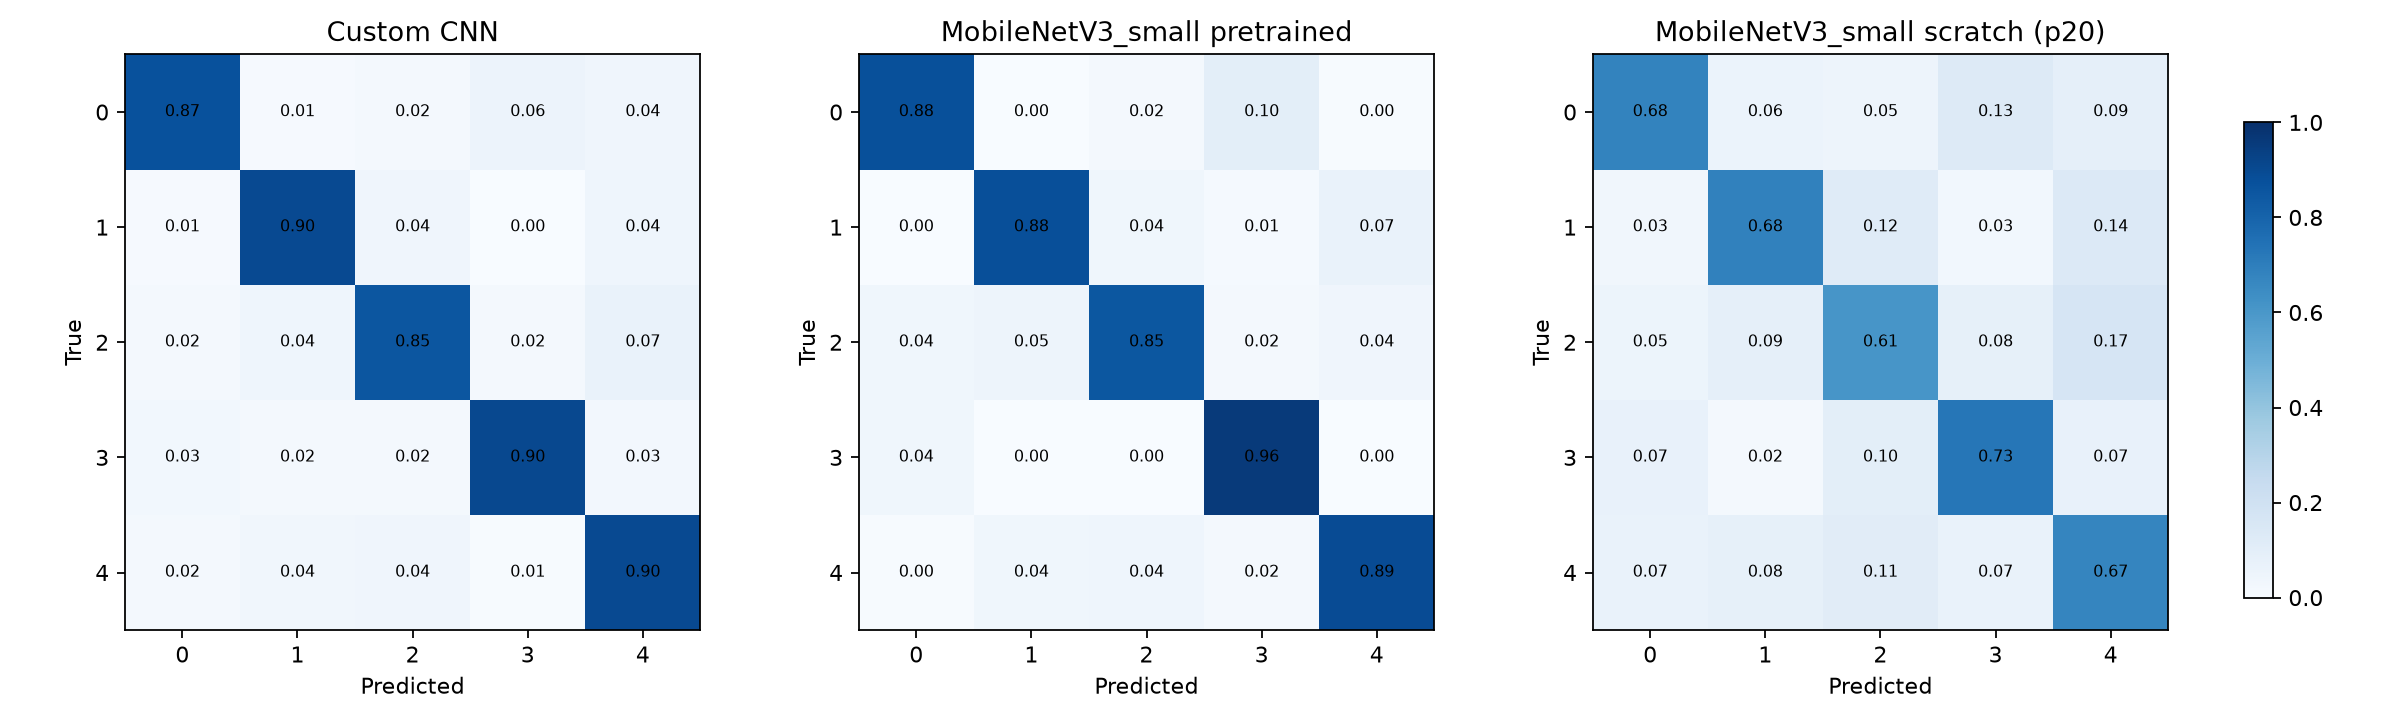
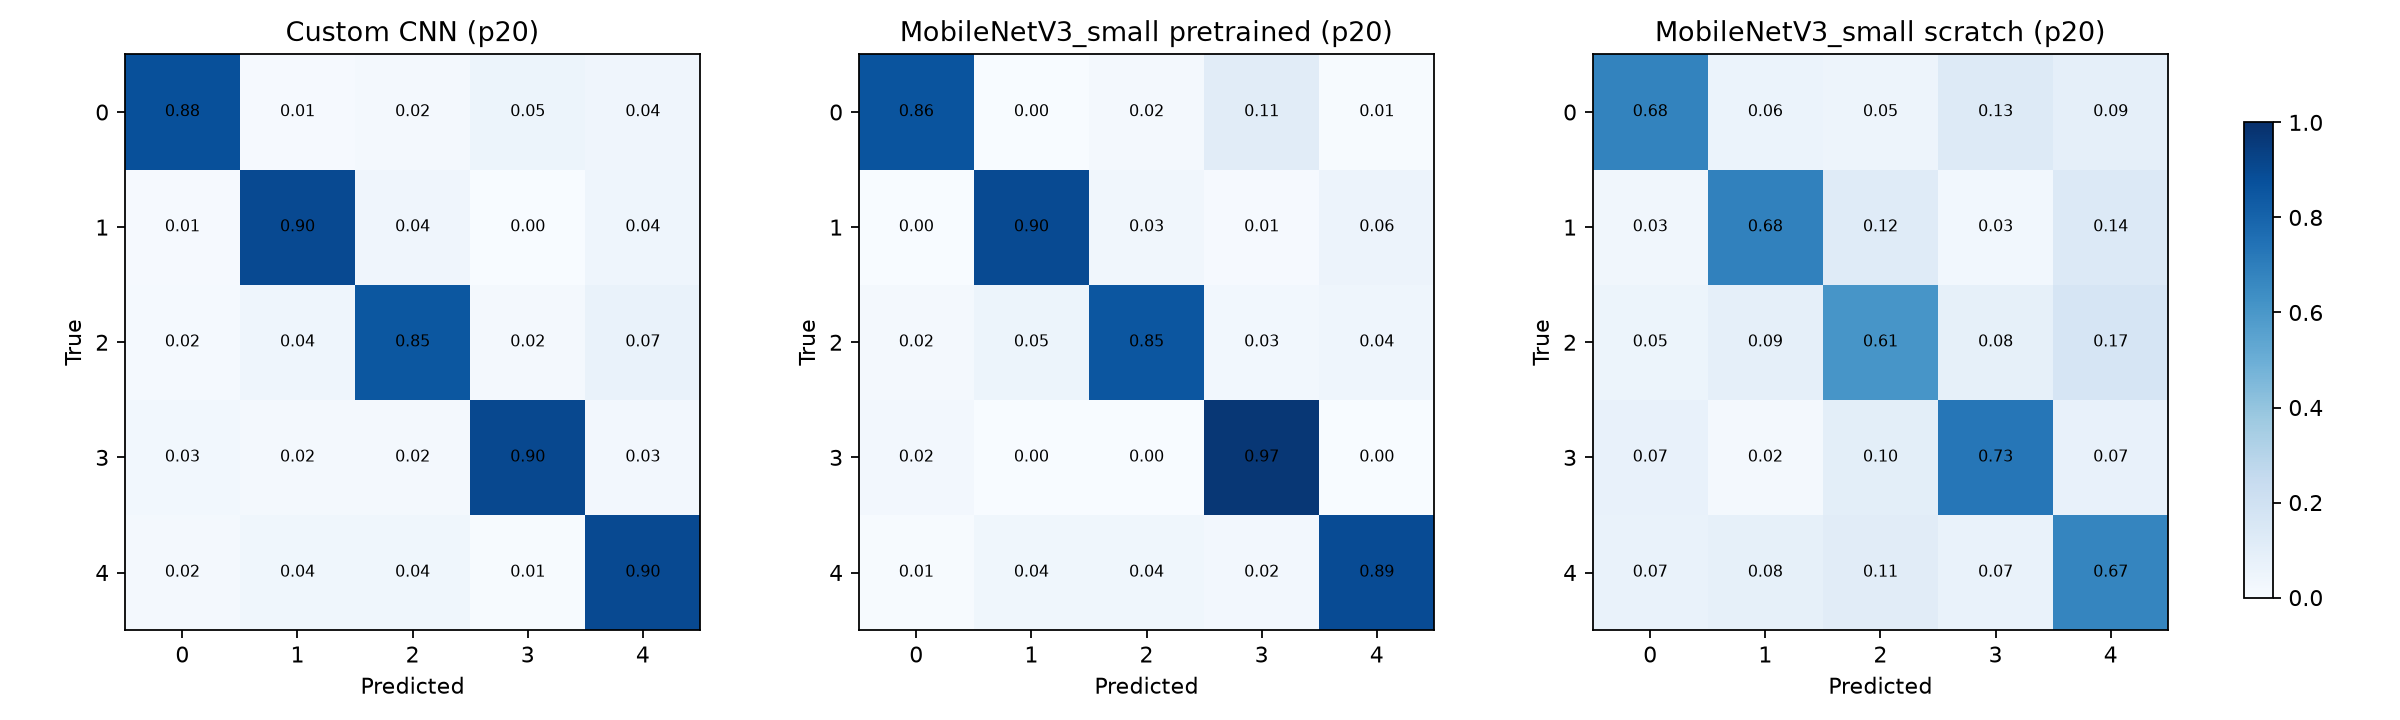
docs: cập nhật kết quả RQ1 với patience 20 đồng nhất

Changed region(s): [[0.375, 0.0306, 0.5938, 0.0611], [0.125, 0.0306, 0.2188, 0.0611]]

diff --git a/scripts/analyze_rq1.py b/scripts/analyze_rq1.py
@@ -316,8 +316,8 @@ def build_markdown(
         "# Kết quả RQ1",
         "",
         "Sinh tự động bởi `scripts/analyze_rq1.py`; test được đánh giá một lần cho "
-        "mỗi phiên bản. Scratch có tái sử dụng test sau khi sửa recipe, xem "
-        "`plans/rq1/scratch_final_v2.yaml`.",
+        "mỗi phiên bản. Cả ba arm đều đã tái sử dụng test sau khi điều chỉnh "
+        "protocol, xem các plan tương ứng.",
         "",
     ]
     if aggregate.empty:

diff --git a/docs/RQ1/rq1_results.md b/docs/RQ1/rq1_results.md
@@ -1,29 +1,29 @@
 # Kết quả RQ1
 
-Sinh tự động bởi `scripts/analyze_rq1.py`; test được đánh giá một lần cho mỗi phiên bản. Scratch có tái sử dụng test sau khi sửa recipe, xem `plans/rq1/scratch_final_v2.yaml`.
+Sinh tự động bởi `scripts/analyze_rq1.py`; test được đánh giá một lần cho mỗi phiên bản. Cả ba arm đều đã tái sử dụng test sau khi điều chỉnh protocol, xem các plan tương ứng.
 
 ## Tổng hợp
 
 | label | n_seeds | Macro-F1 mean | Macro-F1 std | Accuracy mean | Params |
 | --- | --- | --- | --- | --- | --- |
-| MobileNetV3_small pretrained | 5 | 0.8901 | 0.0114 | 0.8914 | 1522981.0000 |
-| Custom CNN | 5 | 0.8870 | 0.0060 | 0.8868 | 1174501.0000 |
+| MobileNetV3_small pretrained (p20) | 5 | 0.8945 | 0.0081 | 0.8955 | 1522981.0000 |
+| Custom CNN (p20) | 5 | 0.8863 | 0.0057 | 0.8860 | 1174501.0000 |
 | MobileNetV3_small scratch (p20) | 5 | 0.6734 | 0.0144 | 0.6722 | 1522981.0000 |
 
 ## Theo seed
 
 | label | seed | macro_f1 | accuracy | best_val_macro_f1 |
 | --- | --- | --- | --- | --- |
-| Custom CNN | 7 | 0.8880 | 0.8870 | 0.8664 |
-| Custom CNN | 42 | 0.8906 | 0.8906 | 0.8809 |
-| Custom CNN | 123 | 0.8763 | 0.8761 | 0.8607 |
-| Custom CNN | 2024 | 0.8901 | 0.8906 | 0.8708 |
-| Custom CNN | 3407 | 0.8899 | 0.8894 | 0.8728 |
-| MobileNetV3_small pretrained | 7 | 0.8900 | 0.8906 | 0.8925 |
-| MobileNetV3_small pretrained | 42 | 0.8833 | 0.8858 | 0.8809 |
-| MobileNetV3_small pretrained | 123 | 0.8793 | 0.8797 | 0.8974 |
-| MobileNetV3_small pretrained | 2024 | 0.9089 | 0.9101 | 0.9005 |
-| MobileNetV3_small pretrained | 3407 | 0.8888 | 0.8906 | 0.8935 |
+| Custom CNN (p20) | 7 | 0.8880 | 0.8870 | 0.8664 |
+| Custom CNN (p20) | 42 | 0.8872 | 0.8870 | 0.8746 |
+| Custom CNN (p20) | 123 | 0.8763 | 0.8761 | 0.8607 |
+| Custom CNN (p20) | 2024 | 0.8901 | 0.8906 | 0.8708 |
+| Custom CNN (p20) | 3407 | 0.8899 | 0.8894 | 0.8728 |
+| MobileNetV3_small pretrained (p20) | 7 | 0.8900 | 0.8906 | 0.8925 |
+| MobileNetV3_small pretrained (p20) | 42 | 0.9024 | 0.9028 | 0.8958 |
+| MobileNetV3_small pretrained (p20) | 123 | 0.8835 | 0.8846 | 0.8975 |
+| MobileNetV3_small pretrained (p20) | 2024 | 0.9021 | 0.9040 | 0.9028 |
+| MobileNetV3_small pretrained (p20) | 3407 | 0.8944 | 0.8955 | 0.9027 |
 | MobileNetV3_small scratch (p20) | 7 | 0.6799 | 0.6780 | 0.6791 |
 | MobileNetV3_small scratch (p20) | 42 | 0.6804 | 0.6829 | 0.7039 |
 | MobileNetV3_small scratch (p20) | 123 | 0.6792 | 0.6780 | 0.6919 |
@@ -34,16 +34,16 @@ Sinh tự động bởi `scripts/analyze_rq1.py`; test được đánh giá mộ
 
 | label | class | f1_mean | f1_std | recall_mean |
 | --- | --- | --- | --- | --- |
-| Custom CNN | cardboard | 0.8862 | 0.0133 | 0.8738 |
-| Custom CNN | glass | 0.8817 | 0.0112 | 0.9014 |
-| Custom CNN | metal | 0.8661 | 0.0066 | 0.8522 |
-| Custom CNN | paper | 0.9138 | 0.0138 | 0.9049 |
-| Custom CNN | plastic | 0.8870 | 0.0129 | 0.9005 |
-| MobileNetV3_small pretrained | cardboard | 0.8836 | 0.0214 | 0.8754 |
-| MobileNetV3_small pretrained | glass | 0.8786 | 0.0067 | 0.8797 |
-| MobileNetV3_small pretrained | metal | 0.8733 | 0.0134 | 0.8500 |
-| MobileNetV3_small pretrained | paper | 0.9124 | 0.0133 | 0.9585 |
-| MobileNetV3_small pretrained | plastic | 0.9024 | 0.0131 | 0.8919 |
+| Custom CNN (p20) | cardboard | 0.8873 | 0.0139 | 0.8769 |
+| Custom CNN (p20) | glass | 0.8796 | 0.0131 | 0.9000 |
+| Custom CNN (p20) | metal | 0.8667 | 0.0071 | 0.8489 |
+| Custom CNN (p20) | paper | 0.9125 | 0.0128 | 0.9024 |
+| Custom CNN (p20) | plastic | 0.8855 | 0.0127 | 0.9014 |
+| MobileNetV3_small pretrained (p20) | cardboard | 0.8914 | 0.0131 | 0.8600 |
+| MobileNetV3_small pretrained (p20) | glass | 0.8862 | 0.0081 | 0.8971 |
+| MobileNetV3_small pretrained (p20) | metal | 0.8788 | 0.0121 | 0.8533 |
+| MobileNetV3_small pretrained (p20) | paper | 0.9104 | 0.0120 | 0.9707 |
+| MobileNetV3_small pretrained (p20) | plastic | 0.9057 | 0.0117 | 0.8938 |
 | MobileNetV3_small scratch (p20) | cardboard | 0.6805 | 0.0340 | 0.6769 |
 | MobileNetV3_small scratch (p20) | glass | 0.6805 | 0.0309 | 0.6841 |
 | MobileNetV3_small scratch (p20) | metal | 0.6231 | 0.0355 | 0.6089 |
@@ -54,20 +54,20 @@ Sinh tự động bởi `scripts/analyze_rq1.py`; test được đánh giá mộ
 
 | label | true_label | pred_label | count |
 | --- | --- | --- | --- |
-| Custom CNN | metal | plastic | 60.0000 |
-| Custom CNN | plastic | metal | 44.0000 |
-| Custom CNN | metal | glass | 40.0000 |
-| Custom CNN | plastic | glass | 37.0000 |
-| Custom CNN | cardboard | paper | 36.0000 |
-| Custom CNN | [realwaste] | error_rate | 0.1011 |
-| Custom CNN | [trashnet] | error_rate | 0.1289 |
-| MobileNetV3_small pretrained | cardboard | paper | 64.0000 |
-| MobileNetV3_small pretrained | glass | plastic | 47.0000 |
-| MobileNetV3_small pretrained | plastic | metal | 47.0000 |
-| MobileNetV3_small pretrained | metal | glass | 43.0000 |
-| MobileNetV3_small pretrained | plastic | glass | 40.0000 |
-| MobileNetV3_small pretrained | [realwaste] | error_rate | 0.1050 |
-| MobileNetV3_small pretrained | [trashnet] | error_rate | 0.1133 |
+| Custom CNN (p20) | metal | plastic | 62.0000 |
+| Custom CNN (p20) | plastic | metal | 41.0000 |
+| Custom CNN (p20) | metal | glass | 40.0000 |
+| Custom CNN (p20) | plastic | glass | 38.0000 |
+| Custom CNN (p20) | cardboard | paper | 35.0000 |
+| Custom CNN (p20) | [realwaste] | error_rate | 0.1015 |
+| Custom CNN (p20) | [trashnet] | error_rate | 0.1300 |
+| MobileNetV3_small pretrained (p20) | cardboard | paper | 72.0000 |
+| MobileNetV3_small pretrained (p20) | metal | glass | 47.0000 |
+| MobileNetV3_small pretrained (p20) | plastic | metal | 41.0000 |
+| MobileNetV3_small pretrained (p20) | metal | plastic | 40.0000 |
+| MobileNetV3_small pretrained (p20) | plastic | glass | 39.0000 |
+| MobileNetV3_small pretrained (p20) | [realwaste] | error_rate | 0.1045 |
+| MobileNetV3_small pretrained (p20) | [trashnet] | error_rate | 0.1044 |
 | MobileNetV3_small scratch (p20) | metal | plastic | 151.0000 |
 | MobileNetV3_small scratch (p20) | plastic | metal | 116.0000 |
 | MobileNetV3_small scratch (p20) | glass | plastic | 94.0000 |

diff --git a/docs/RQ1/rq1_efficiency.md b/docs/RQ1/rq1_efficiency.md
@@ -4,18 +4,18 @@ Sinh bởi `scripts/measure_efficiency.py`; FLOPs tính cho một ảnh 224×224
 
 | Run | Model | Params | GFLOPs | Latency B1 (ms) | Latency B32 (ms) | Images/s | VRAM (MB) |
 |---|---|---:|---:|---:|---:|---:|---:|
-| rq1_customcnn_s123 | custom_cnn | 1,174,501 | 5.173 | 29.10 | 1143.94 | 28.0 |  |
-| rq1_customcnn_s2024 | custom_cnn | 1,174,501 | 5.173 | 34.07 | 1129.96 | 28.3 |  |
-| rq1_customcnn_s3407 | custom_cnn | 1,174,501 | 5.173 | 30.51 | 1143.30 | 28.0 |  |
-| rq1_customcnn_s42 | custom_cnn | 1,174,501 | 5.173 | 32.40 | 1126.44 | 28.4 |  |
-| rq1_customcnn_s7 | custom_cnn | 1,174,501 | 5.173 | 30.35 | 1095.10 | 29.2 |  |
-| rq1_mobilenetv3s_full_s123 | mobilenet_v3_small | 1,522,981 | 0.111 | 11.03 | 127.62 | 250.7 |  |
-| rq1_mobilenetv3s_full_s2024 | mobilenet_v3_small | 1,522,981 | 0.111 | 11.31 | 129.60 | 246.9 |  |
-| rq1_mobilenetv3s_full_s3407 | mobilenet_v3_small | 1,522,981 | 0.111 | 10.69 | 128.21 | 249.6 |  |
-| rq1_mobilenetv3s_full_s42 | mobilenet_v3_small | 1,522,981 | 0.111 | 11.67 | 127.40 | 251.2 |  |
-| rq1_mobilenetv3s_full_s7 | mobilenet_v3_small | 1,522,981 | 0.111 | 10.84 | 133.49 | 239.7 |  |
-| rq1_mobilenetv3s_scratch_p20_s123 | mobilenet_v3_small | 1,522,981 | 0.111 | 11.71 | 139.27 | 229.8 |  |
-| rq1_mobilenetv3s_scratch_p20_s2024 | mobilenet_v3_small | 1,522,981 | 0.111 | 14.99 | 135.76 | 235.7 |  |
-| rq1_mobilenetv3s_scratch_p20_s3407 | mobilenet_v3_small | 1,522,981 | 0.111 | 10.99 | 144.11 | 222.0 |  |
-| rq1_mobilenetv3s_scratch_p20_s42 | mobilenet_v3_small | 1,522,981 | 0.111 | 14.33 | 135.48 | 236.2 |  |
-| rq1_mobilenetv3s_scratch_p20_s7 | mobilenet_v3_small | 1,522,981 | 0.111 | 13.72 | 135.79 | 235.7 |  |
+| rq1_customcnn_p20_s123 | custom_cnn | 1,174,501 | 5.173 | 26.22 | 1039.72 | 30.8 |  |
+| rq1_customcnn_p20_s2024 | custom_cnn | 1,174,501 | 5.173 | 27.71 | 1066.77 | 30.0 |  |
+| rq1_customcnn_p20_s3407 | custom_cnn | 1,174,501 | 5.173 | 27.67 | 1067.54 | 30.0 |  |
+| rq1_customcnn_p20_s42 | custom_cnn | 1,174,501 | 5.173 | 29.29 | 1057.61 | 30.3 |  |
+| rq1_customcnn_p20_s7 | custom_cnn | 1,174,501 | 5.173 | 28.03 | 1080.61 | 29.6 |  |
+| rq1_mobilenetv3s_full_p20_s123 | mobilenet_v3_small | 1,522,981 | 0.111 | 10.67 | 118.97 | 269.0 |  |
+| rq1_mobilenetv3s_full_p20_s2024 | mobilenet_v3_small | 1,522,981 | 0.111 | 10.82 | 117.89 | 271.4 |  |
+| rq1_mobilenetv3s_full_p20_s3407 | mobilenet_v3_small | 1,522,981 | 0.111 | 9.12 | 117.61 | 272.1 |  |
+| rq1_mobilenetv3s_full_p20_s42 | mobilenet_v3_small | 1,522,981 | 0.111 | 10.91 | 115.90 | 276.1 |  |
+| rq1_mobilenetv3s_full_p20_s7 | mobilenet_v3_small | 1,522,981 | 0.111 | 10.17 | 117.27 | 272.9 |  |
+| rq1_mobilenetv3s_scratch_p20_s123 | mobilenet_v3_small | 1,522,981 | 0.111 | 10.02 | 116.98 | 273.6 |  |
+| rq1_mobilenetv3s_scratch_p20_s2024 | mobilenet_v3_small | 1,522,981 | 0.111 | 10.13 | 117.48 | 272.4 |  |
+| rq1_mobilenetv3s_scratch_p20_s3407 | mobilenet_v3_small | 1,522,981 | 0.111 | 10.40 | 117.05 | 273.4 |  |
+| rq1_mobilenetv3s_scratch_p20_s42 | mobilenet_v3_small | 1,522,981 | 0.111 | 10.09 | 117.40 | 272.6 |  |
+| rq1_mobilenetv3s_scratch_p20_s7 | mobilenet_v3_small | 1,522,981 | 0.111 | 9.54 | 117.32 | 272.8 |  |

diff --git a/docs/RQ1/external_validation.md b/docs/RQ1/external_validation.md
@@ -6,24 +6,24 @@ External test chỉ dùng để đánh giá sau khi khóa mô hình; không dùn
 
 | experiment | seeds | external_macro_f1_mean | external_macro_f1_std | external_accuracy_mean | in_domain_macro_f1_mean | drop_mean |
 | --- | --- | --- | --- | --- | --- | --- |
-| rq1_customcnn | 5 | 0.3694 | 0.0117 | 0.3679 | 0.8870 | 0.5175 |
-| rq1_mobilenetv3s_full | 5 | 0.5409 | 0.0097 | 0.5510 | 0.8901 | 0.3492 |
+| rq1_customcnn_p20 | 5 | 0.3718 | 0.0124 | 0.3704 | 0.8863 | 0.5145 |
+| rq1_mobilenetv3s_full_p20 | 5 | 0.5285 | 0.0218 | 0.5417 | 0.8945 | 0.3660 |
 | rq1_mobilenetv3s_scratch_p20 | 5 | 0.2834 | 0.0230 | 0.2919 | 0.6734 | 0.3900 |
 
 ## Từng seed
 
 | run_id | experiment | seed | in_domain_macro_f1 | external_macro_f1 | external_accuracy | drop |
 | --- | --- | --- | --- | --- | --- | --- |
-| rq1_customcnn_s123 | rq1_customcnn | 123 | 0.8763 | 0.3796 | 0.3747 | 0.4968 |
-| rq1_customcnn_s2024 | rq1_customcnn | 2024 | 0.8901 | 0.3807 | 0.3795 | 0.5094 |
-| rq1_customcnn_s3407 | rq1_customcnn | 3407 | 0.8899 | 0.3519 | 0.3494 | 0.5381 |
-| rq1_customcnn_s42 | rq1_customcnn | 42 | 0.8906 | 0.3679 | 0.3654 | 0.5227 |
-| rq1_customcnn_s7 | rq1_customcnn | 7 | 0.8880 | 0.3672 | 0.3706 | 0.5207 |
-| rq1_mobilenetv3s_full_s123 | rq1_mobilenetv3s_full | 123 | 0.8793 | 0.5377 | 0.5516 | 0.3416 |
-| rq1_mobilenetv3s_full_s2024 | rq1_mobilenetv3s_full | 2024 | 0.9089 | 0.5296 | 0.5381 | 0.3793 |
-| rq1_mobilenetv3s_full_s3407 | rq1_mobilenetv3s_full | 3407 | 0.8888 | 0.5411 | 0.5491 | 0.3477 |
-| rq1_mobilenetv3s_full_s42 | rq1_mobilenetv3s_full | 42 | 0.8833 | 0.5397 | 0.5493 | 0.3436 |
-| rq1_mobilenetv3s_full_s7 | rq1_mobilenetv3s_full | 7 | 0.8900 | 0.5564 | 0.5668 | 0.3337 |
+| rq1_customcnn_p20_s123 | rq1_customcnn_p20 | 123 | 0.8763 | 0.3796 | 0.3747 | 0.4968 |
+| rq1_customcnn_p20_s2024 | rq1_customcnn_p20 | 2024 | 0.8901 | 0.3807 | 0.3795 | 0.5094 |
+| rq1_customcnn_p20_s3407 | rq1_customcnn_p20 | 3407 | 0.8899 | 0.3519 | 0.3494 | 0.5381 |
+| rq1_customcnn_p20_s42 | rq1_customcnn_p20 | 42 | 0.8872 | 0.3796 | 0.3777 | 0.5076 |
+| rq1_customcnn_p20_s7 | rq1_customcnn_p20 | 7 | 0.8880 | 0.3672 | 0.3706 | 0.5207 |
+| rq1_mobilenetv3s_full_p20_s123 | rq1_mobilenetv3s_full_p20 | 123 | 0.8835 | 0.4954 | 0.5110 | 0.3881 |
+| rq1_mobilenetv3s_full_p20_s2024 | rq1_mobilenetv3s_full_p20 | 2024 | 0.9021 | 0.5290 | 0.5427 | 0.3731 |
+| rq1_mobilenetv3s_full_p20_s3407 | rq1_mobilenetv3s_full_p20 | 3407 | 0.8944 | 0.5281 | 0.5416 | 0.3664 |
+| rq1_mobilenetv3s_full_p20_s42 | rq1_mobilenetv3s_full_p20 | 42 | 0.9024 | 0.5336 | 0.5464 | 0.3688 |
+| rq1_mobilenetv3s_full_p20_s7 | rq1_mobilenetv3s_full_p20 | 7 | 0.8900 | 0.5564 | 0.5668 | 0.3337 |
 | rq1_mobilenetv3s_scratch_p20_s123 | rq1_mobilenetv3s_scratch_p20 | 123 | 0.6792 | 0.3177 | 0.3250 | 0.3615 |
 | rq1_mobilenetv3s_scratch_p20_s2024 | rq1_mobilenetv3s_scratch_p20 | 2024 | 0.6477 | 0.2536 | 0.2613 | 0.3941 |
 | rq1_mobilenetv3s_scratch_p20_s3407 | rq1_mobilenetv3s_scratch_p20 | 3407 | 0.6798 | 0.2835 | 0.2938 | 0.3963 |

diff --git a/docs/RQ1/rq1_overview.md b/docs/RQ1/rq1_overview.md
@@ -223,6 +223,7 @@ báo cáo cả chi phí tính toán, không chỉ accuracy.
 - Chạy final Custom CNN và MobileNet pretrained, 5 seed.
 - Chẩn đoán early stopping: patience 7 cắt sớm 2 seed scratch.
 - Chạy final scratch với patience 20, 5 seed (mean 0,6734 ± 0,0144).
+- Đồng nhất patience 20, chạy lại Custom và pretrained 5 seed.
 - Phân tích test, per-class, confusion matrix, efficiency, Grad-CAM.
 - External validation GD cho Custom và pretrained.
 - Công cụ phân tích, efficiency, Grad-CAM, feature map.
@@ -231,8 +232,8 @@ báo cáo cả chi phí tính toán, không chỉ accuracy.
 
 | Arm | Test Macro-F1 | GD Macro-F1 | Drop |
 |---|---:|---:|---:|
-| Custom CNN | 0,8870 ± 0,0060 | 0,3694 ± 0,0117 | 0,5175 |
-| MobileNetV3_small pretrained | 0,8901 ± 0,0114 | 0,5409 ± 0,0097 | 0,3492 |
+| Custom CNN | 0,8863 ± 0,0057 | 0,3718 ± 0,0124 | 0,5145 |
+| MobileNetV3_small pretrained | 0,8945 ± 0,0081 | 0,5285 ± 0,0218 | 0,3660 |
 | MobileNetV3_small scratch (p20) | 0,6734 ± 0,0144 | 0,2834 ± 0,0230 | 0,3900 |
 
 ### Chưa hoàn thành
@@ -253,9 +254,9 @@ báo cáo cả chi phí tính toán, không chỉ accuracy.
 - TrashNet 4:3 có thể bị cắt khi CenterCrop 224.
 - So sánh kiến trúc khác FLOPs, không chỉ params.
 - Chỉ 5 seed, test một lần cho mỗi phiên bản.
-- Scratch phải sửa recipe hai lần (learning rate, early stopping); test bị tái sử dụng
-  và đã công bố.
-- Patience của scratch là 20, của Custom/pretrained là 7; ngân sách tối đa 50 epoch
+- Scratch phải sửa recipe hai lần (learning rate, early stopping); cả ba arm đều
+  đã tái sử dụng test sau khi điều chỉnh protocol và đã công bố.
+- Final dùng patience 20 cho cả ba arm; debug dùng 7–10. Ngân sách tối đa 50 epoch
   cho cả ba arm.
 - External GD có 31,4% ảnh trùng train, đã loại; phần còn lại vẫn có domain shift.
 - RQ1 không dùng augmentation/class weighting do thiết kế.
@@ -277,6 +278,7 @@ báo cáo cả chi phí tính toán, không chỉ accuracy.
 | `plans/rq1/model_comparison.yaml` | Plan RQ1 chính |
 | `plans/rq1/scratch_diag.yaml` | Chẩn đoán early stopping scratch |
 | `plans/rq1/scratch_final_v2.yaml` | Chạy lại scratch với patience 20 |
+| `plans/rq1/patience20_uniform.yaml` | Đồng nhất patience 20 cho ba arm |
 | `docs/splits.md`, `docs/EDA/eda_report.md` | Dữ liệu và EDA |
 
 ## 11. Ghi chú về hỗ trợ AI
